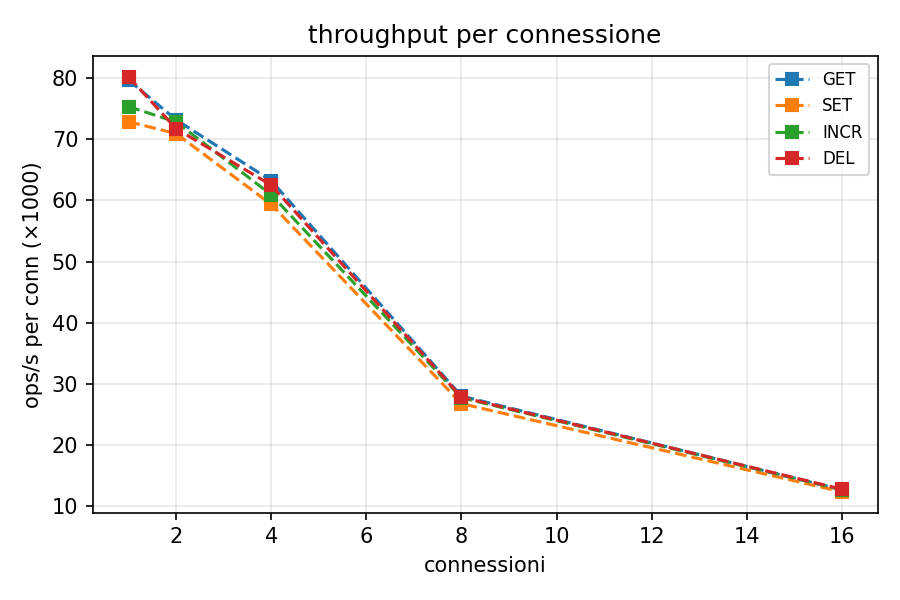
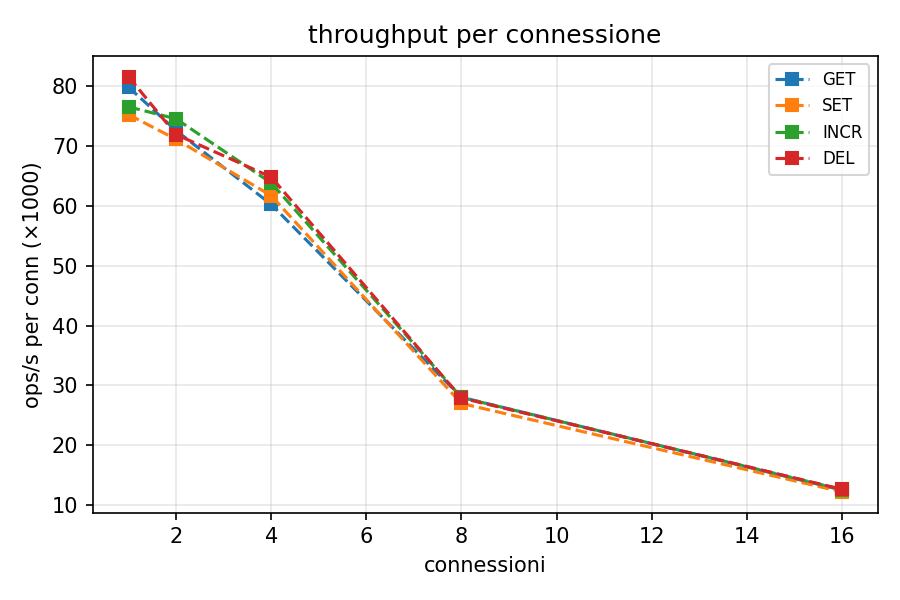
fix

diff --git a/src/server.c b/src/server.c
@@ -248,7 +248,7 @@ static void *worker_handle_client(void *arg) {
   Client *client = wrap->client;
   free(wrap);
 
-  /* Buffer di accumulo (querybuf di Redis) */
+  /* Buffer di accumulo */
   StringBuffer querybuf = {.buf = malloc(BUFSIZ), .len = 0, .cap = BUFSIZ};
   if (querybuf.buf == NULL) {
     log_error("Impossibile allocare querybuf: %s", strerror(errno));
@@ -265,7 +265,7 @@ static void *worker_handle_client(void *arg) {
   int running = 1;
 
   while (running) {
-    /* === FASE 1: leggi dal socket e accumula === */
+    /* === Legge dal socket e accumula === */
     char iobuf[BUFSIZ];
     ssize_t n = recv(client->sock, iobuf, sizeof(iobuf), 0);
     if (n == -1) {
@@ -281,7 +281,7 @@ static void *worker_handle_client(void *arg) {
     log_debug("%zd byte <- %s:%d", n, client->ip, client->port);
     strbuf_append_noterm(&querybuf, iobuf, (size_t)n);
 
-    /* === FASE 2+3: estrai ed esegui tutti i comandi completi === */
+    /* === Esegue i comandi completi === */
     while (running) {
       size_t end = find_crlf(querybuf.buf, querybuf.len);
       if (end == 0)
@@ -306,7 +306,7 @@ static void *worker_handle_client(void *arg) {
 
       free(cmd_buf);
 
-      /* Rimuovi il comando consumato dal querybuf */
+      /* Rimuove il comando consumato dal querybuf */
       querybuf.len -= cmd_len;
       if (querybuf.len > 0)
         memmove(querybuf.buf, querybuf.buf + cmd_len, querybuf.len);
@@ -341,15 +341,15 @@ static int gracefully_exit(Server *server) {
 
   log_info("Arresto in corso... (client connessi: %d)", n);
 
-  /* Sblocchiamo tutti i recv() bloccanti */
+  /* Sblocca tutti i recv() bloccanti */
   for (int i = 0; i < n; i++)
     shutdown(server->clients.array[i].sock, SHUT_RDWR);
 
-  /* Aspettiamo che tutti i thread worker terminino */
+  /* Aspetta che tutti i thread worker terminino */
   for (int i = 0; i < n; i++)
     pthread_join(server->clients.threads[i], NULL);
 
-  /* Chiudiamo i socket (ormai i thread sono fermi) */
+  /* Chiude i socket (ormai i thread sono fermi) */
   for (int i = 0; i < n; i++) {
     close(server->clients.array[i].sock);
     server->clients.array[i].sock = -1;
